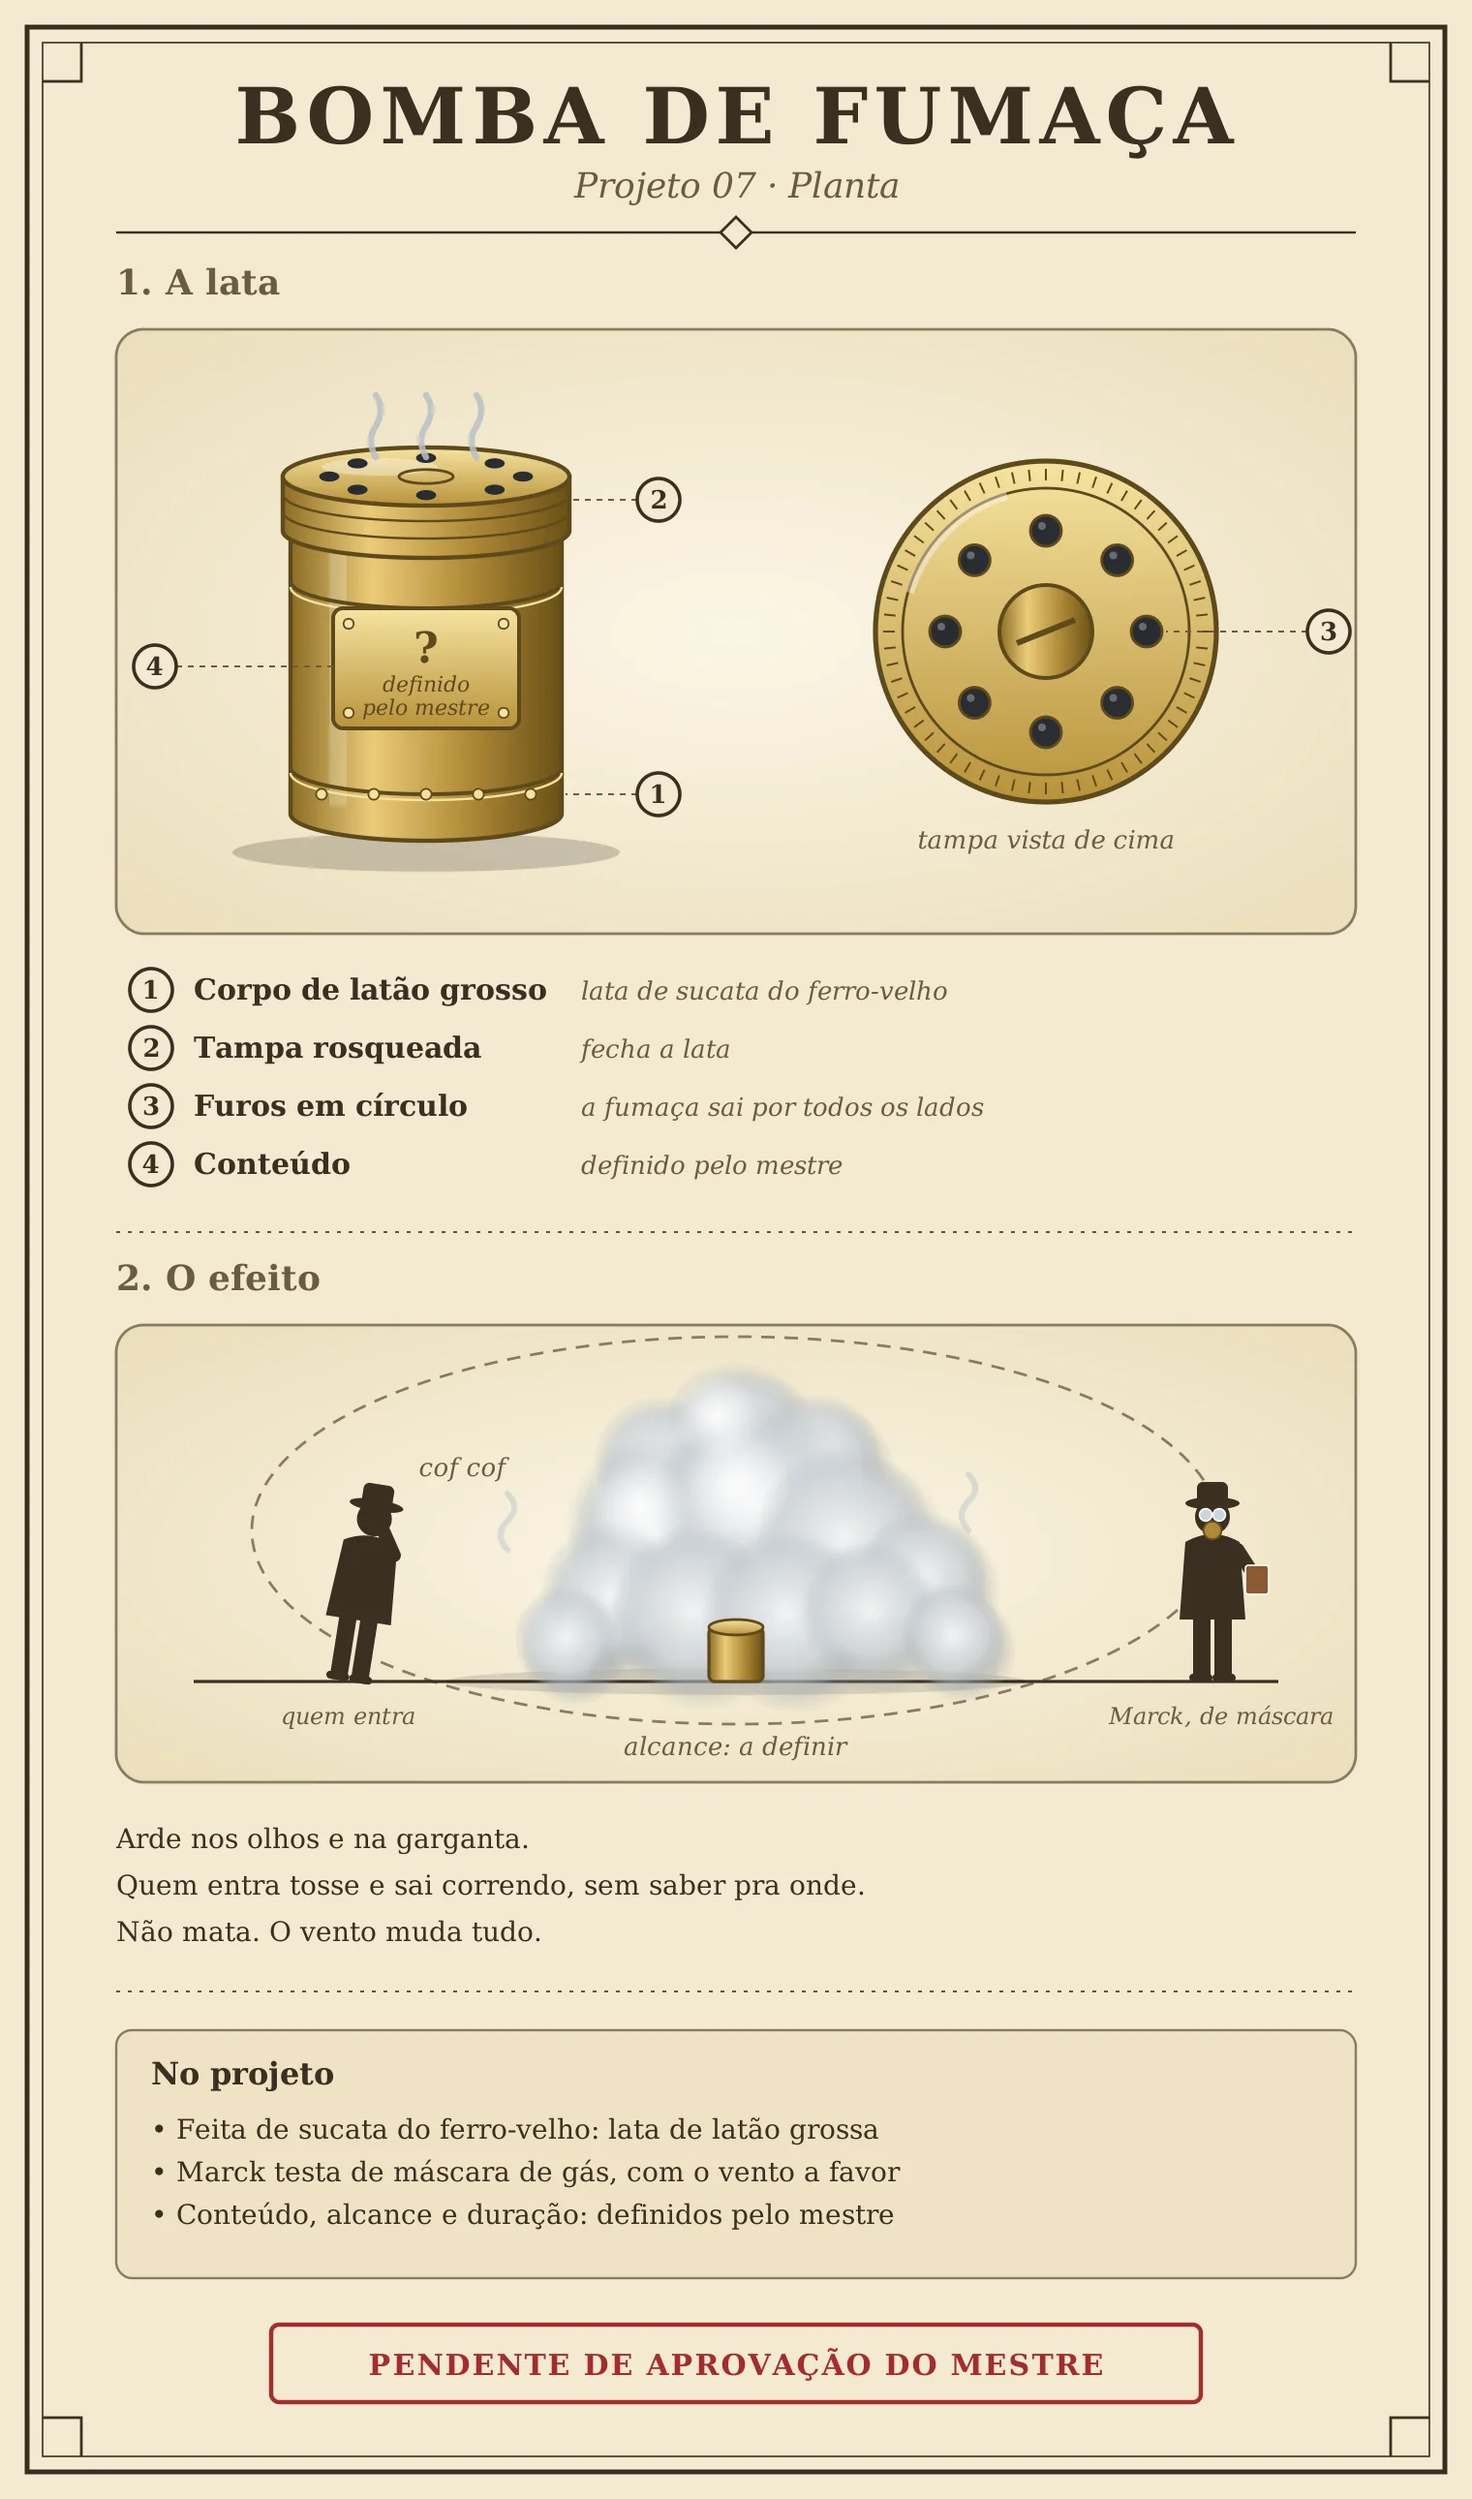
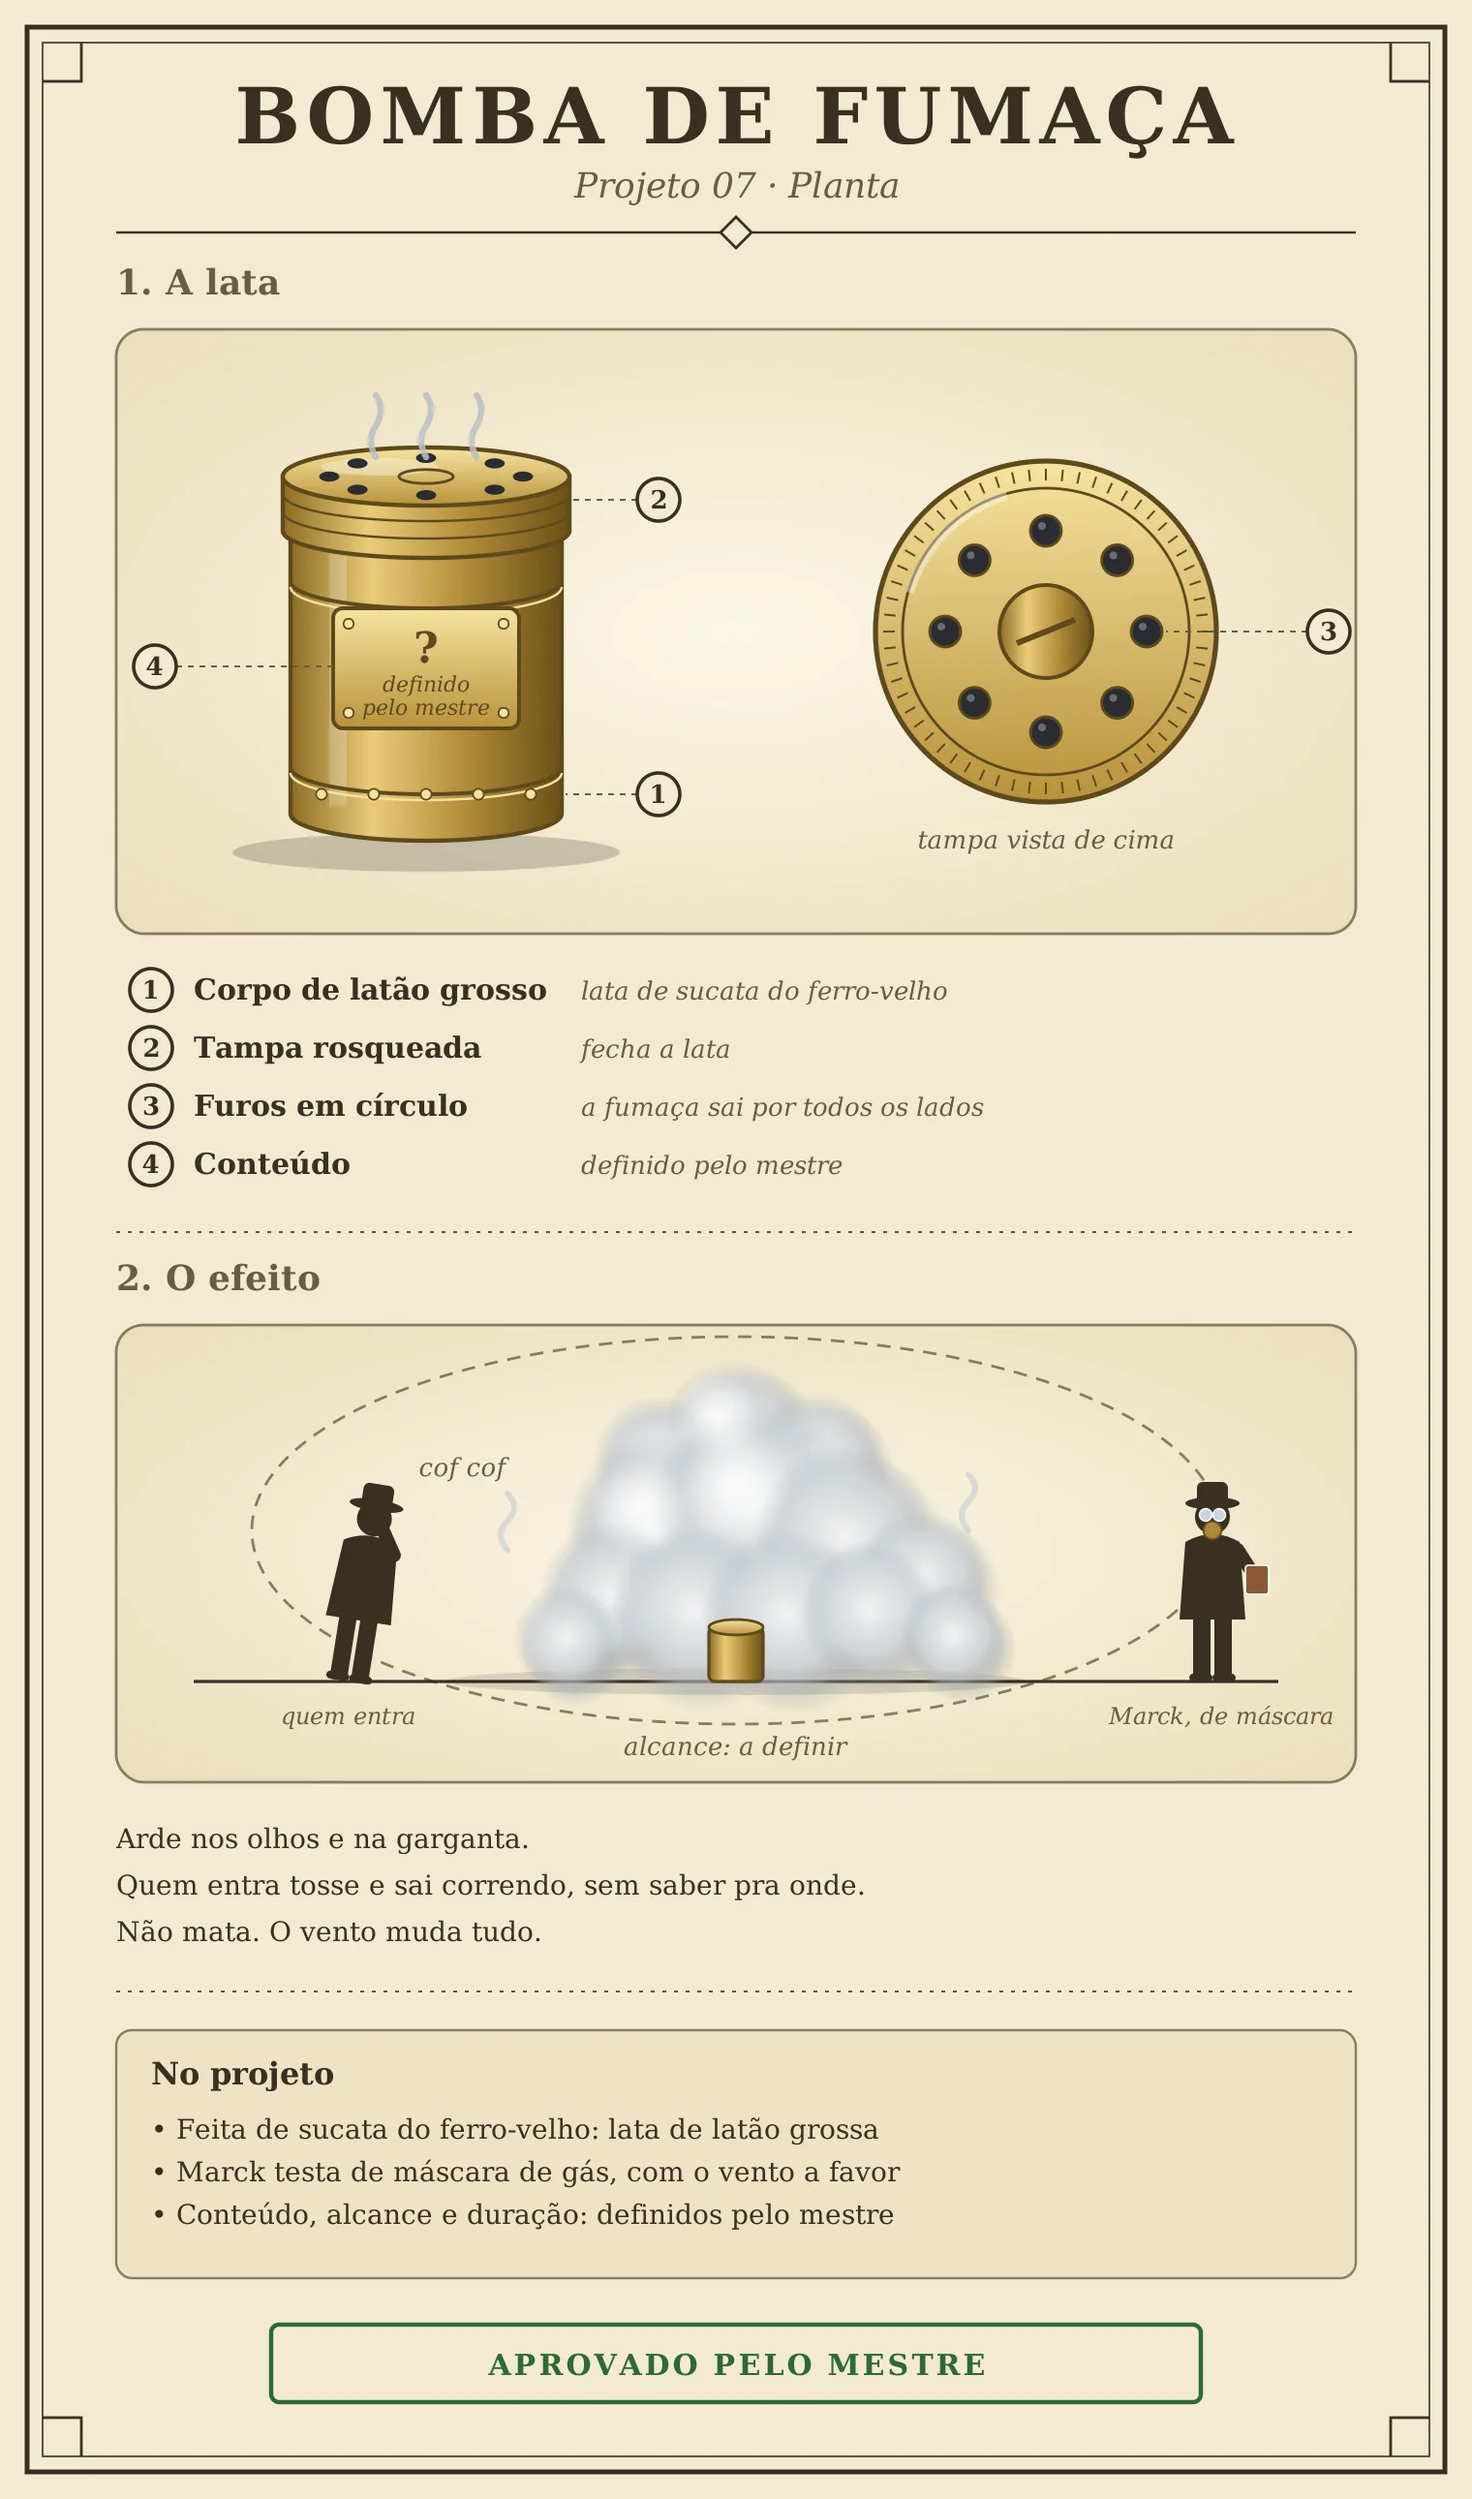
Projeto 07: bomba de fumaça aprovada pelo mestre (carimbo verde no cartão e na planta)
Claude-Session: https://claude.ai/code/session_01MurN7dQzxfsxrKgkmqedMg

Changed region(s): [[0.2474, 0.9302, 0.773, 0.9612], [0.8039, 0.9302, 0.8349, 0.9612], [0.1546, 0.9302, 0.1855, 0.9612]]

diff --git a/index.html b/index.html
@@ -9,7 +9,7 @@
 <link rel="preconnect" href="https://fonts.googleapis.com">
 <link rel="preconnect" href="https://fonts.gstatic.com" crossorigin>
 <link href="https://fonts.googleapis.com/css2?family=Alegreya+Sans:ital,wght@0,400;0,500;0,700;1,400&family=IM+Fell+English:ital@0;1&display=swap" rel="stylesheet">
-<link rel="stylesheet" href="style.css?v=25">
+<link rel="stylesheet" href="style.css?v=26">
 <noscript><style>.painel[hidden]{display:block}</style></noscript>
 </head>
 <body>
@@ -681,7 +681,7 @@
         <span class="proj-sub">pra despistar e fugir</span>
         <span class="proj-data">Criado em <time datetime="2026-10-30">30/10/2026</time></span>
         <span class="proj-pe">
-          <span class="carimbo">Pendente de aprovação do mestre</span>
+          <span class="carimbo aprovado">Aprovado pelo mestre</span>
           <span class="proj-abrir"><span class="so-fechado">Toque pra ler</span><span class="so-aberto">Fechar</span></span>
         </span>
       </summary>
@@ -981,6 +981,6 @@
   <p>Arte do personagem assinada STN.</p>
 </footer>
 
-<script src="app.js?v=25"></script>
+<script src="app.js?v=26"></script>
 </body>
 </html>
